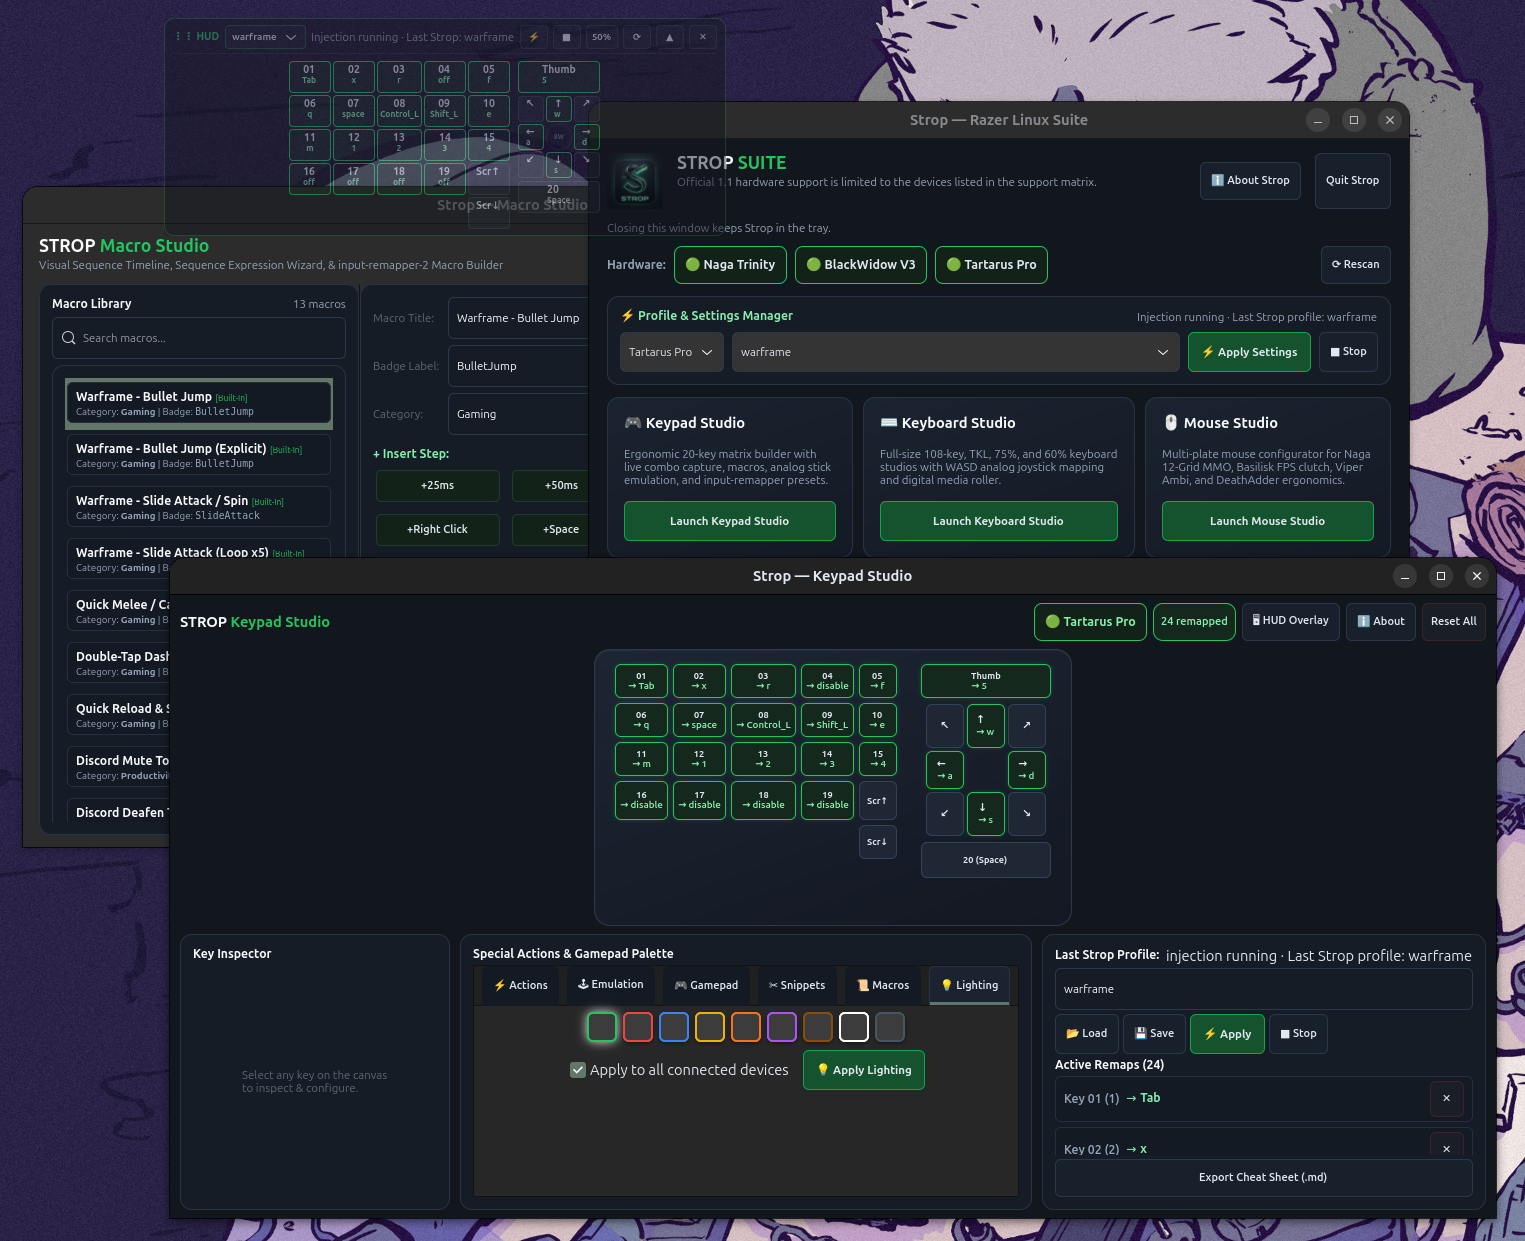
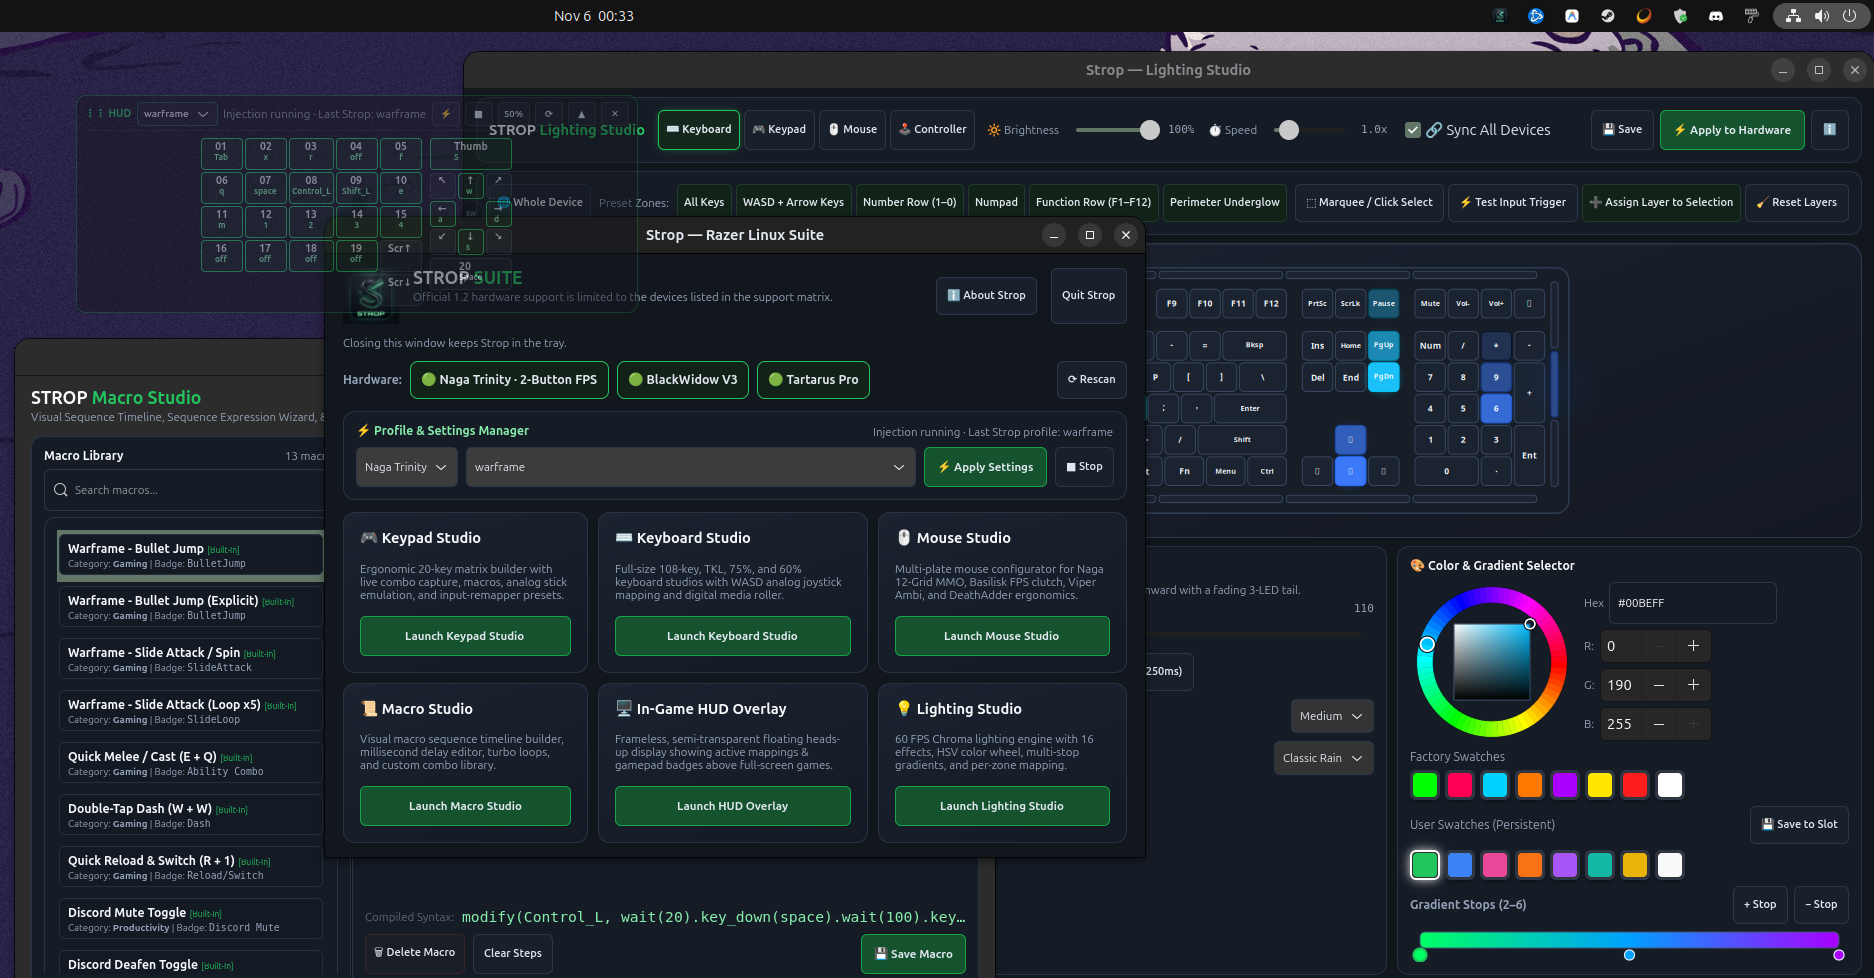
Update Strop suite screenshot for 1.2 Lighting Studio

diff --git a/README.md b/README.md
@@ -12,7 +12,7 @@
   </p>
 </div>
 
-![Strop Hub, Keypad Studio, Macro Studio, and keypad HUD with a Warframe profile](docs/screenshots/strop-suite.png)
+![Strop Hub, Lighting Studio, Macro Studio, and keypad HUD with a Warframe profile](docs/screenshots/strop-suite.png)
 
 ---
 
